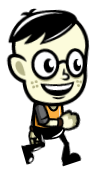
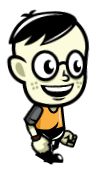
update

diff --git a/CatchTheDeadline/src/gameobjects/Player.java b/CatchTheDeadline/src/gameobjects/Player.java
@@ -21,7 +21,6 @@ import gameManager.*;
 public class Player extends GameObject {
 
 	// properties
-	private Camera cam;
 	private int speed;
 	private Animation playerWalk;
 	private Animation playerRun;
@@ -29,13 +28,20 @@ public class Player extends GameObject {
 	private Pen pen;
 	private Eraser eraser;
 	private PaintSpray paintSpray;
-	
-	private float gravity = 0.1f;
-	private float width = 64, height = 96;
+
 	private final float MAX_SPEED = 10;
 	private Handler handler;
+	private Camera cam;
 	
 	ImageIcon player = new ImageIcon(getClass().getResource("/images/player.png"));
+	ImageIcon RunSlowGIF = new ImageIcon(getClass().getResource("/images/RunSlowGIF.gif"));
+	ImageIcon RunFastGIF = new ImageIcon(getClass().getResource("/images/RunFastGIF.gif"));
+	ImageIcon RollJumpGIF = new ImageIcon(getClass().getResource("/images/RollJumpGIF.gif"));
+	ImageIcon JumpGIF = new ImageIcon(getClass().getResource("/images/JumpGIF.gif"));
+	ImageIcon KO_GIF = new ImageIcon(getClass().getResource("/images/KO_GIF.gif"));
+	
+	private float gravity = 0.1f;
+	private float width = player.getIconWidth(), height = player.getIconHeight();
 	
 	// constructor
 	public Player(float x, float y, Handler handler, ObjectType type) {
@@ -118,20 +124,22 @@ public class Player extends GameObject {
 	@Override
 	public void render(Graphics graphics) {
 		
-		graphics.setColor(Color.blue); 
-		graphics.fillRect((int)posX, (int)posY, (int)width, (int)height );
-		
-		//graphics.drawImage(player.getImage(), 0, 0, null);
-		
-		Graphics2D g2d = (Graphics2D) graphics;
-		graphics.setColor(Color.red);
-		g2d.draw(objectBounds());
-		g2d.draw(objectBoundsRight());
-		g2d.draw(objectBoundsLeft());
-		g2d.draw(objectBoundsTop());
-		
-		
-		
+		//graphics.fillRect((int)posX, (int)posY, (int)width, (int)height );
+
+		Graphics2D graphics2d = (Graphics2D) graphics;
+		graphics2d.drawImage( RunSlowGIF.getImage(), (int) posX, (int) posY, null );
+		/*if( jumping ) {
+			graphics2d.dispose();
+			graphics2d.drawImage( JumpGIF.getImage(), (int) posX, (int) posY, null );
+		}*/
+		//graphics2d.drawImage( player.getImage(), (int) posX+10, (int) posY+10, null );
+		//graphics.setColor(Color.red);
+		//Color myColour = new Color(255, 0, 0, 0); // for making the lines transparent
+        //graphics.setColor(myColour);
+		//g2d.draw(objectBounds());
+		//g2d.draw(objectBoundsRight());
+		//g2d.draw(objectBoundsLeft());
+		//g2d.draw(objectBoundsTop());
 	}
 
 	@Override
@@ -150,7 +158,5 @@ public class Player extends GameObject {
 	public Rectangle objectBoundsLeft() {
 		return new Rectangle( (int)posX, (int)posY+5, (int)5, (int)height-10 );
 	}
-	
-	
 	
 }

diff --git a/CatchTheDeadline/src/gameManager/Handler.java b/CatchTheDeadline/src/gameManager/Handler.java
@@ -38,12 +38,17 @@ public class Handler {
 
     public void level() {
     	
-        for (int i = 0; i < GameEngine.WIDTH*2; i+= 38) {
+        for (int i = 0; i < GameEngine.WIDTH*10; i+= 38) {
             addObject(new Block(i, GameEngine.HEIGHT - 38, ObjectType.Block));
         }
-        for (int i = 0; i < GameEngine.WIDTH + 200; i+= 200) {
+        for (int i = 0; i < GameEngine.WIDTH + 400; i+= 200) {
             addObject(new Block(i, GameEngine.HEIGHT - 96, ObjectType.Block));
         }
-        
+        for (int i = 0; i < GameEngine.HEIGHT; i+= 38) { // right wall
+            addObject(new Block(GameEngine.WIDTH*3, i, ObjectType.Block));
+        }
+        for (int i = 0; i < GameEngine.HEIGHT; i+= 38) { // left wall
+            addObject(new Block(0, i, ObjectType.Block));
+        }
     }
 }

diff --git a/CatchTheDeadline/src/gameobjects/Block.java b/CatchTheDeadline/src/gameobjects/Block.java
@@ -3,8 +3,12 @@ package gameobjects;
 import java.awt.*;
 import java.util.LinkedList;
 
+import javax.swing.ImageIcon;
+
 public class Block extends GameObject {
 
+	ImageIcon ground = new ImageIcon(getClass().getResource("/images/on.png"));
+	
     public Block(float x, float y, ObjectType type) {
         super(x, y, type);
     }
@@ -16,8 +20,11 @@ public class Block extends GameObject {
 
     @Override
     public void render(Graphics graphics) {
+    	//Color myColour = new Color(255, 0, 0, 0);
+        //graphics.setColor(myColour);
         graphics.setColor(Color.BLUE);
         graphics.drawRect((int) posX, (int) posY, 38, 38);
+        //graphics.drawImage(ground.getImage(), 0, 0, null);
     }
 
     @Override

diff --git a/CatchTheDeadline/src/gameManager/InputManager.java b/CatchTheDeadline/src/gameManager/InputManager.java
@@ -31,7 +31,6 @@ public class InputManager extends KeyAdapter {
 					temp.setVelocityX(-5);
 			}
 		}
-		
 		if( key == KeyEvent.VK_ESCAPE ) {
 			System.exit(1);
 		}
@@ -45,7 +44,7 @@ public class InputManager extends KeyAdapter {
 			
 			if( temp.getType() == ObjectType.Player ){
 				//if( key == KeyEvent.VK_SPACE || key == KeyEvent.VK_UP )
-					//temp.setVelocityY(-10);
+					//temp.setVelocityY(0);
 				if( key == KeyEvent.VK_DOWN )
 					temp.setVelocityY(0);
 				if( key == KeyEvent.VK_RIGHT )
